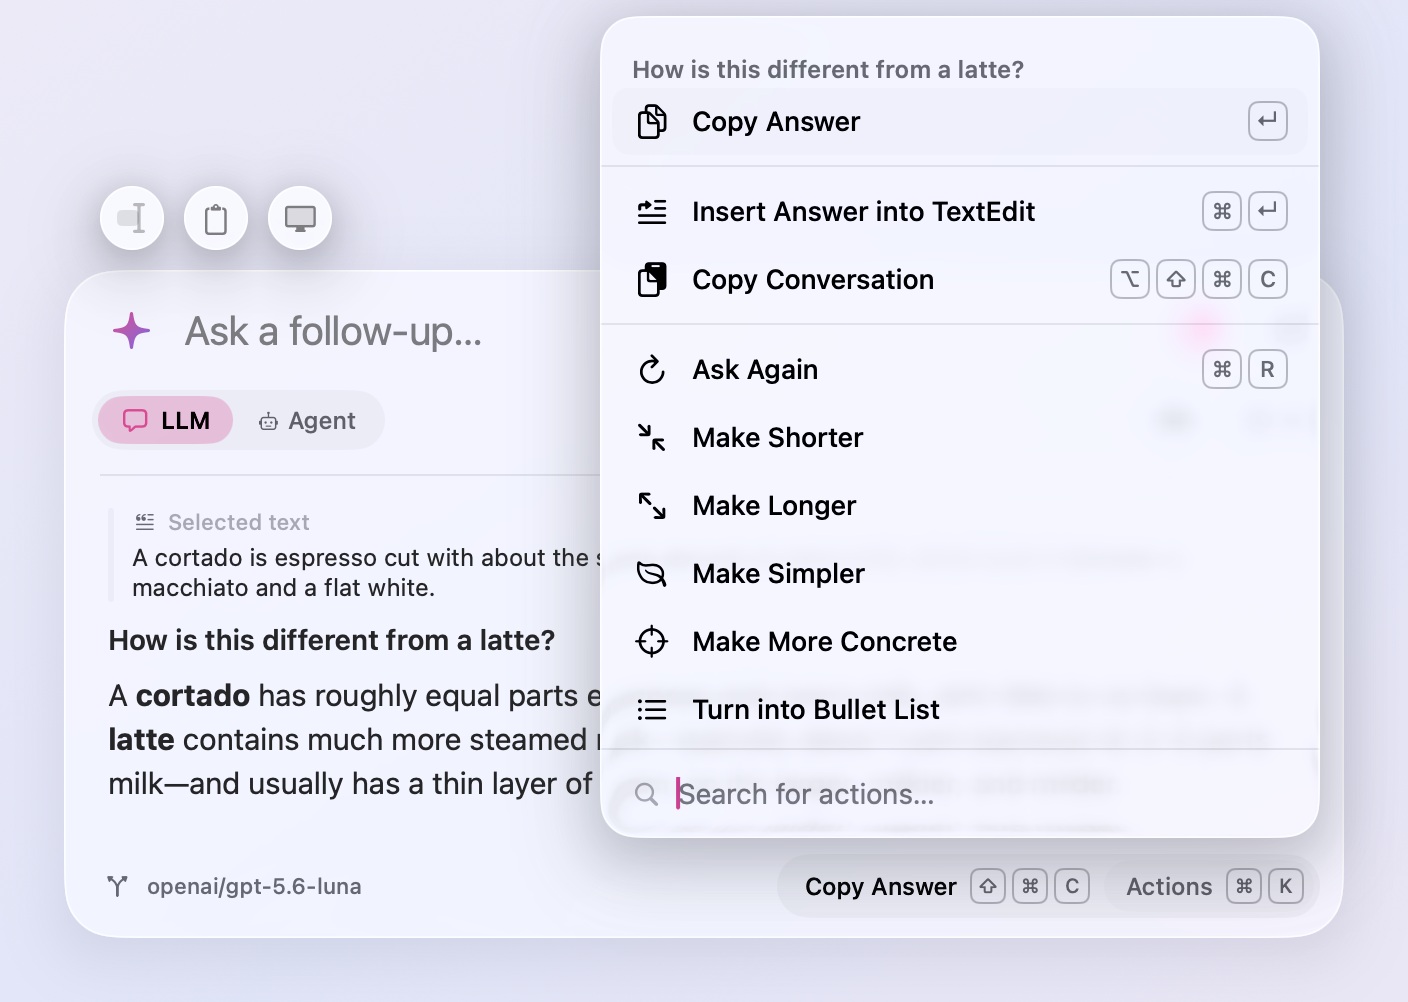
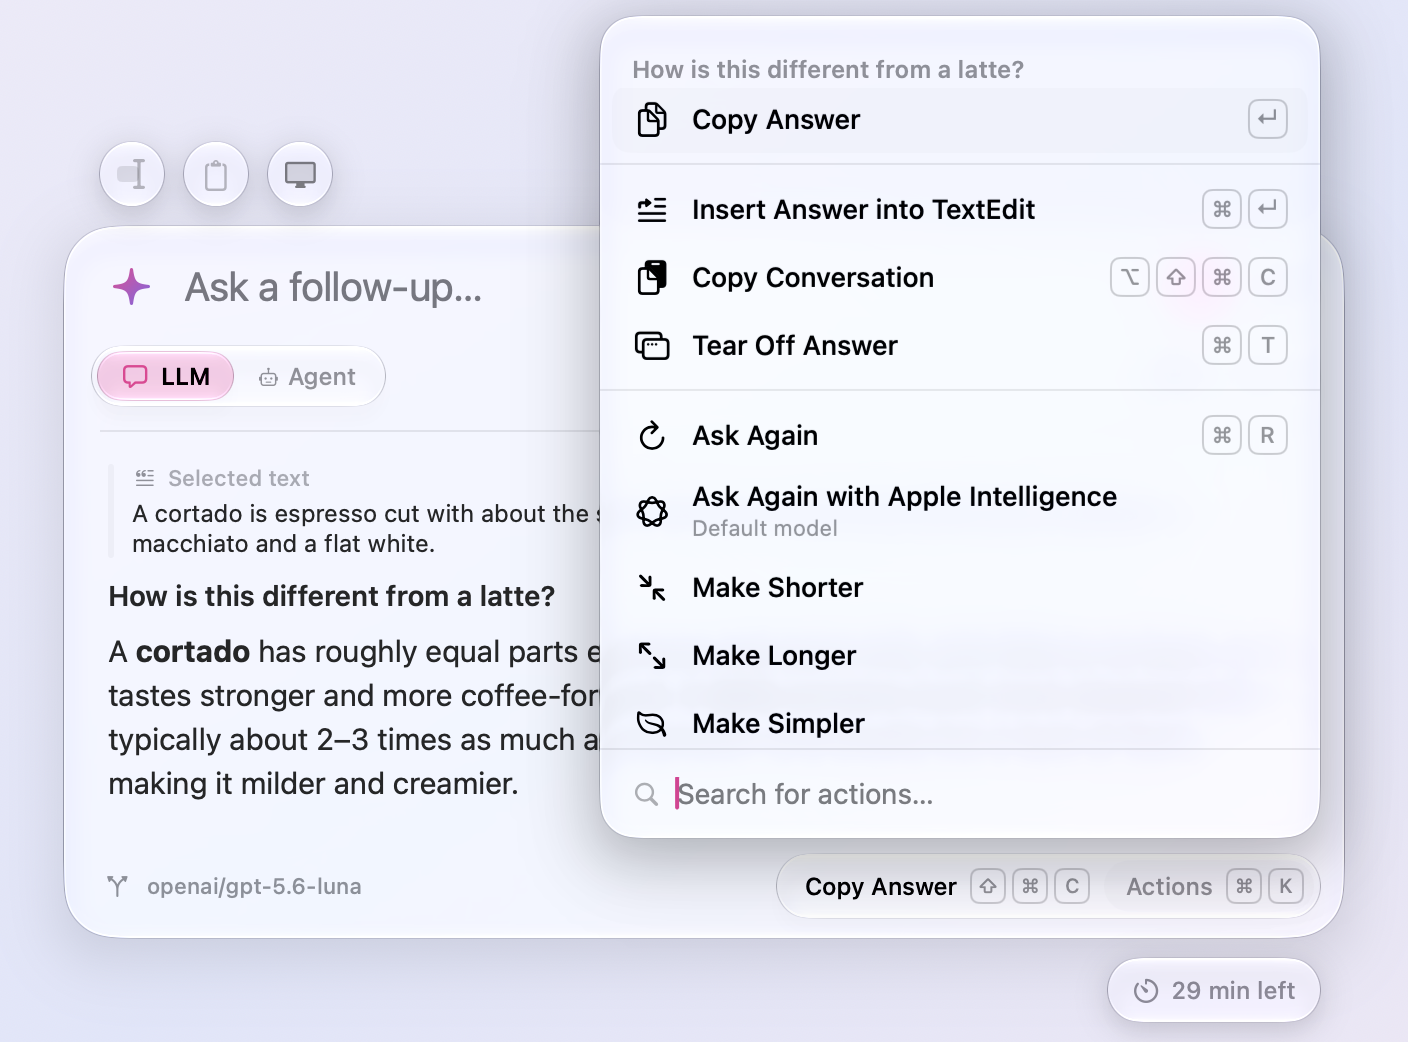
Screenshots of the torn-off note, handed-over files, and Permissions
Three new pictures, in dark and light: note, an answer with code torn
off into a floating note beside the window; files, the demo agent
handing over Meraline's icon and a Markdown note through present_files,
with the picture's preview; and permissions, Settings › Permissions
scrolled so both accesses show. The demo agent answers a press-kit
question by exporting the icon that screenshots.sh copies beside it, and
`windows <pid> note` finds a note's window. The README shows the three
in its table. The rest are retaken: every chat now shows its time left
under the window, and the actions list Tear Off Answer and Ask Again
with Apple Intelligence.

diff --git a/scripts/lib/screenshots/windows.swift b/scripts/lib/screenshots/windows.swift
@@ -1,9 +1,10 @@
 import CoreGraphics
 import Foundation
 
-// Lists one window of a process. Usage: windows <pid> panel|settings, or windows screen
+// Lists one window of a process. Usage: windows <pid> panel|settings|note, or windows screen
 // panel    → "x y width height" of the 704-point-wide floating panel
 // settings → "id x y width height" of the 715-point-wide Settings window
+// note     → "x y width height" of an answer torn off into a note: any other window of a note's size
 // screen   → "width height" of the main display, in points
 if CommandLine.arguments[1] == "screen" {
     let bounds = CGDisplayBounds(CGMainDisplayID())
@@ -18,4 +19,7 @@ for w in list where (w[kCGWindowOwnerPID as String] as? Int32) == pid {
     let id = w[kCGWindowNumber as String]!
     if wanted == "panel" && b["Width"] == 704 { print(Int(b["X"]!), Int(b["Y"]!), Int(b["Width"]!), Int(b["Height"]!)); break }
     if wanted == "settings" && b["Width"] == 715 { print(id, Int(b["X"]!), Int(b["Y"]!), Int(b["Width"]!), Int(b["Height"]!)); break }
+    if wanted == "note", let width = b["Width"], let height = b["Height"], width != 704, width != 715, width > 200, height > 100 {
+        print(Int(b["X"]!), Int(b["Y"]!), Int(width), Int(height)); break
+    }
 }

diff --git a/README.md b/README.md
@@ -32,7 +32,7 @@ There are no chat lists to manage, no saved history, and no projects. Nothing is
 <p align="center">
   <picture>
     <source media="(prefers-color-scheme: dark)" srcset="docs/screenshots/panel.png">
-    <img src="docs/screenshots/panel-light.png" width="704" alt="Meraline's floating glass panel: a question about selected text, quoted above it, and the streamed answer, with the buttons for selected text, the clipboard, and a screenshot above the window, the LLM and Agent toggle, the games controller, and the recent chats clock under the input, and Copy Answer and Actions in the footer">
+    <img src="docs/screenshots/panel-light.png" width="704" alt="Meraline's floating glass panel: a question about selected text, quoted above it, and the streamed answer, with the buttons for selected text, the clipboard, and a screenshot above the window, the LLM and Agent toggle, the games controller, and the recent chats clock under the input, Copy Answer and Actions in the footer, and the time the chat has left under the window">
   </picture>
 </p>
 
@@ -106,12 +106,41 @@ There are no chat lists to manage, no saved history, and no projects. Nothing is
     <td align="center" colspan="2">
       <picture>
         <source media="(prefers-color-scheme: dark)" srcset="docs/screenshots/actions.png">
-        <img src="docs/screenshots/actions-light.png" width="440" alt="The chat's actions over an answer: Insert Answer into TextEdit, Copy Conversation, Ask Again, and the rewrites Make Shorter, Make Longer, Make Simpler, Make More Concrete, and Turn into Bullet List">
+        <img src="docs/screenshots/actions-light.png" width="440" alt="The chat's actions over an answer: Insert Answer into TextEdit, Copy Conversation, Tear Off Answer, Ask Again, Ask Again with Apple Intelligence, and the rewrites Make Shorter, Make Longer, and Make Simpler">
       </picture>
     </td>
   </tr>
   <tr>
     <td align="center" colspan="2"><sub>Rewrite an answer in place, or paste it where you were</sub></td>
+  </tr>
+  <tr>
+    <td align="center" colspan="2">
+      <picture>
+        <source media="(prefers-color-scheme: dark)" srcset="docs/screenshots/note.png">
+        <img src="docs/screenshots/note-light.png" width="700" alt="An answer with its commands in code boxes with a Copy button, and the same answer torn off into a floating note beside the window">
+      </picture>
+    </td>
+  </tr>
+  <tr>
+    <td align="center" colspan="2"><sub>Code comes in a box with a Copy button; tear an answer off into a note that stays on screen</sub></td>
+  </tr>
+  <tr>
+    <td align="center">
+      <picture>
+        <source media="(prefers-color-scheme: dark)" srcset="docs/screenshots/files.png">
+        <img src="docs/screenshots/files-light.png" width="440" alt="Claude Code hands over the app icon, shown as a picture, and a Markdown note, each with Open, Show in Finder, Copy, and Save to Downloads">
+      </picture>
+    </td>
+    <td align="center">
+      <picture>
+        <source media="(prefers-color-scheme: dark)" srcset="docs/screenshots/permissions.png">
+        <img src="docs/screenshots/permissions-light.png" width="440" alt="Settings › Permissions: Accessibility and Screen Recording, what each one turns on, and whether macOS allows it">
+      </picture>
+    </td>
+  </tr>
+  <tr>
+    <td align="center"><sub>Agents hand over the files they make, ready to open, copy, or save</sub></td>
+    <td align="center"><sub>Every permission in one place, with what it's for</sub></td>
   </tr>
   <tr>
     <td align="center" colspan="2">
